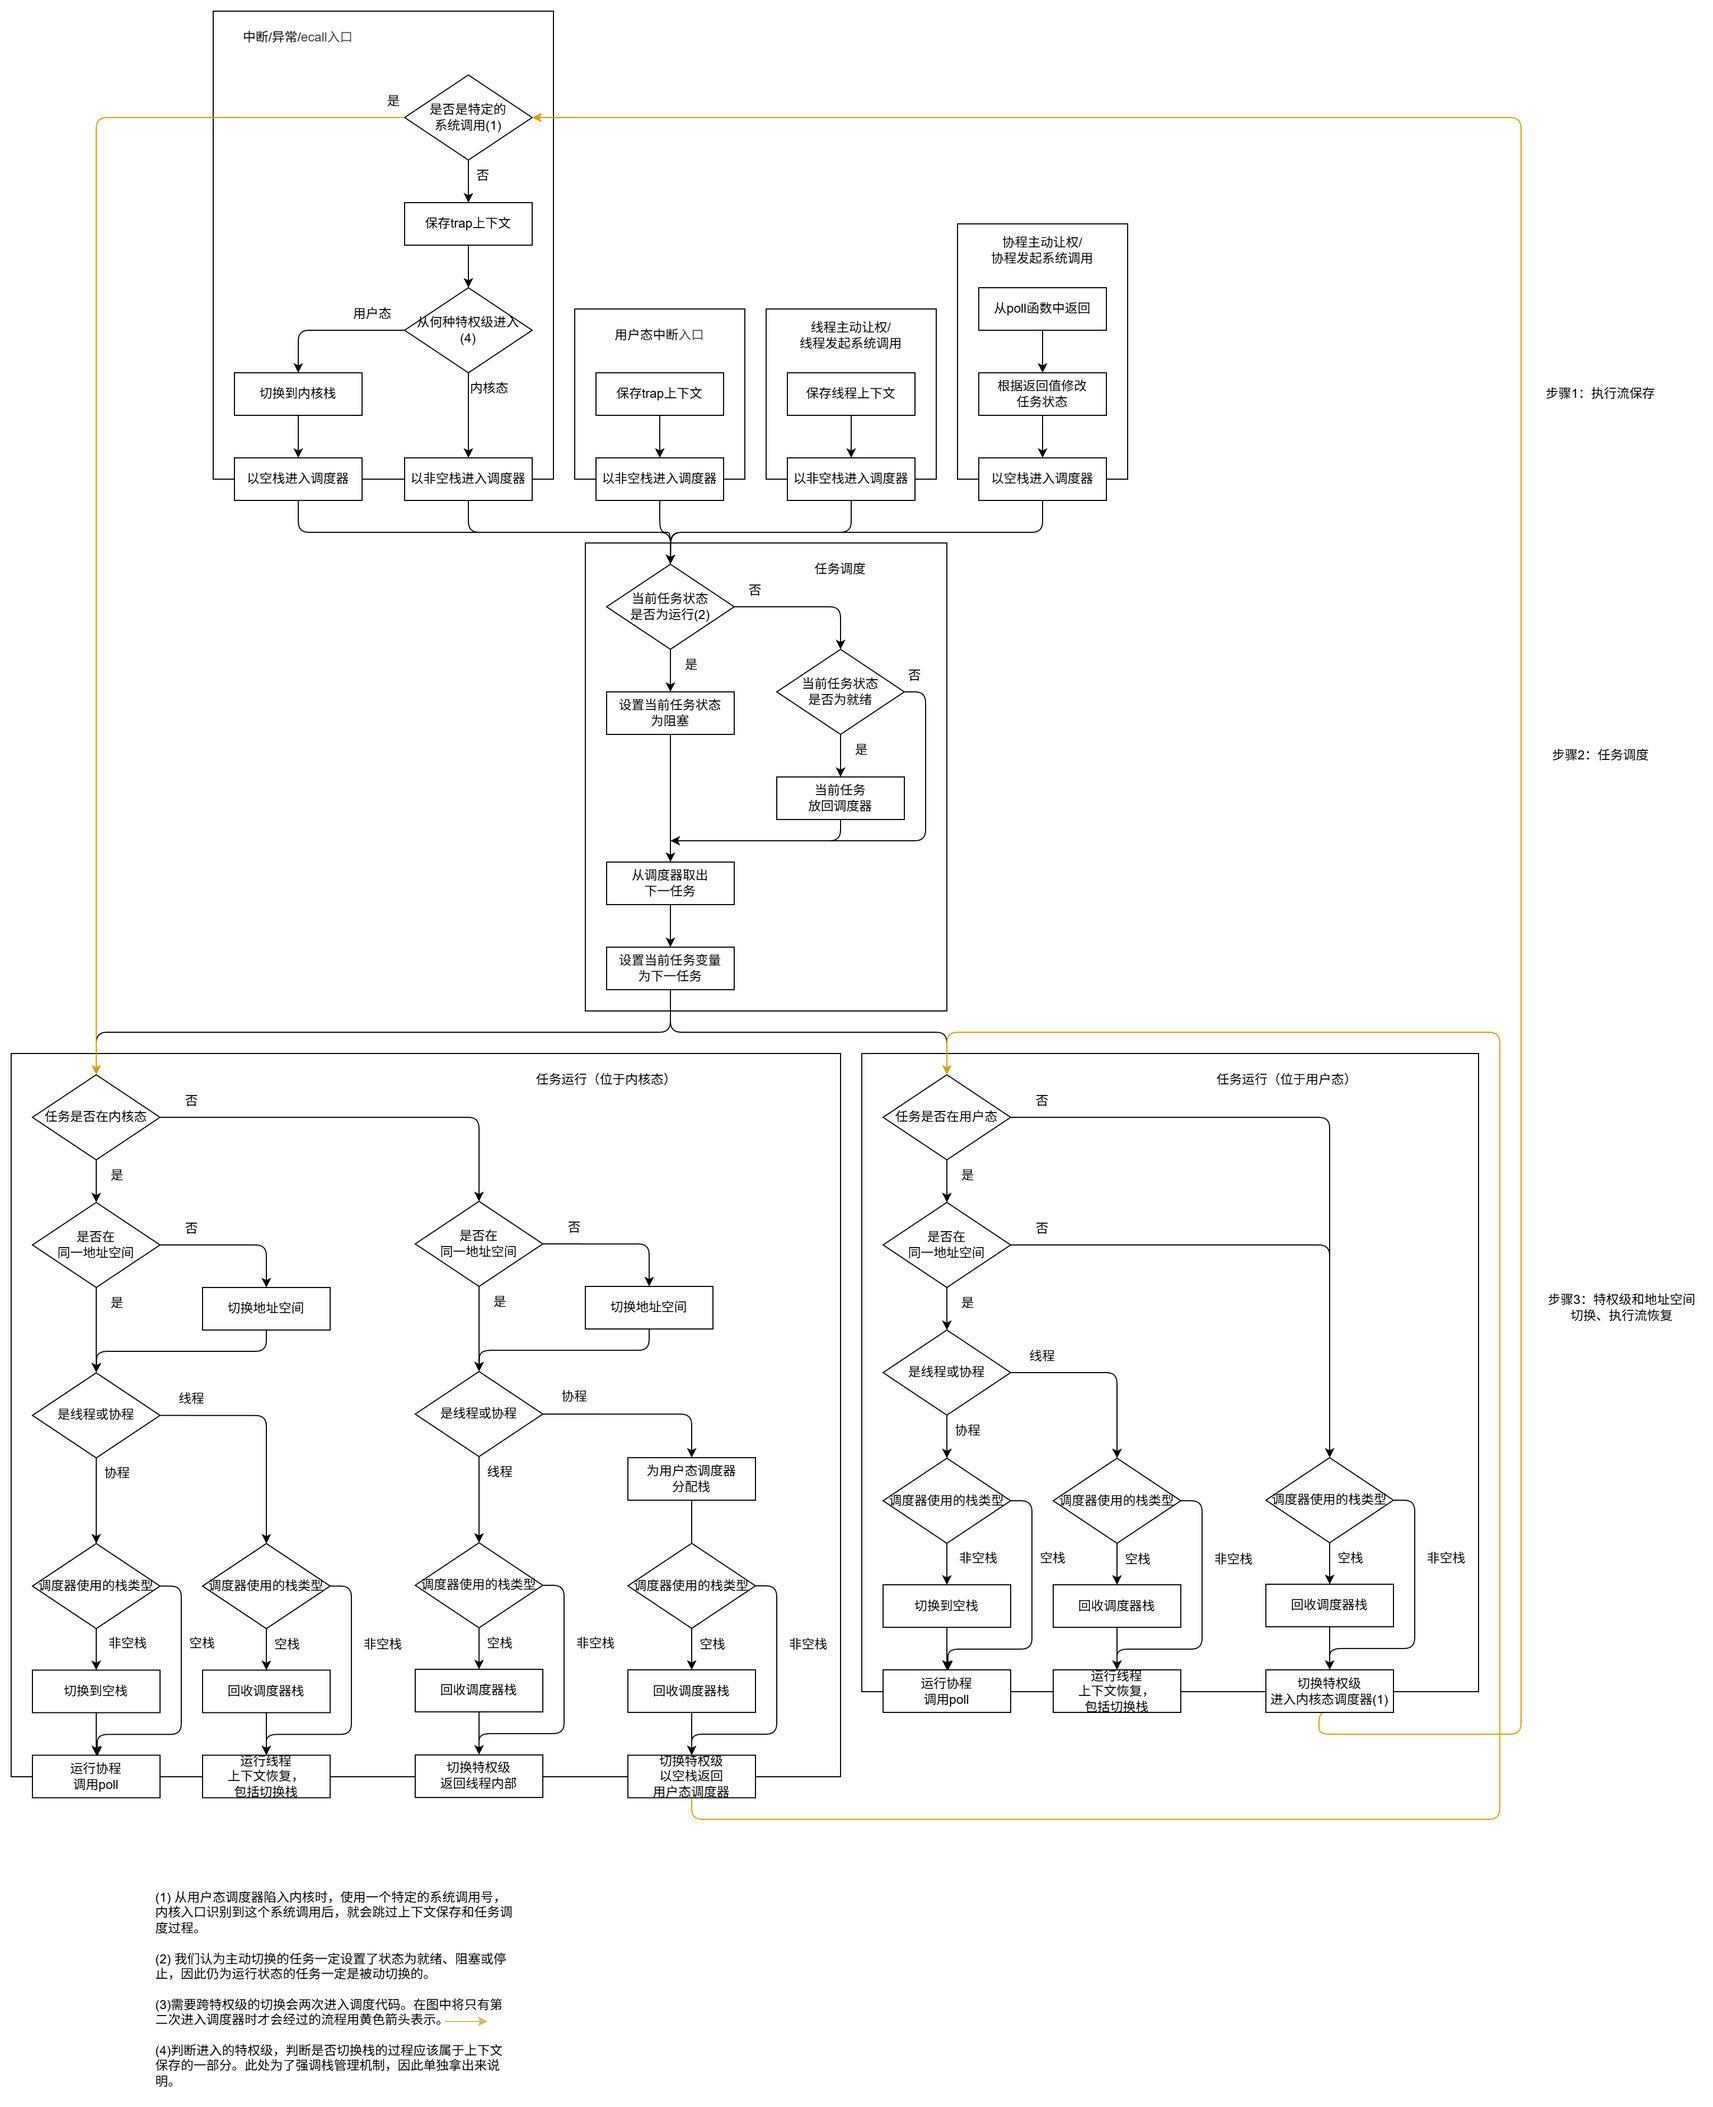
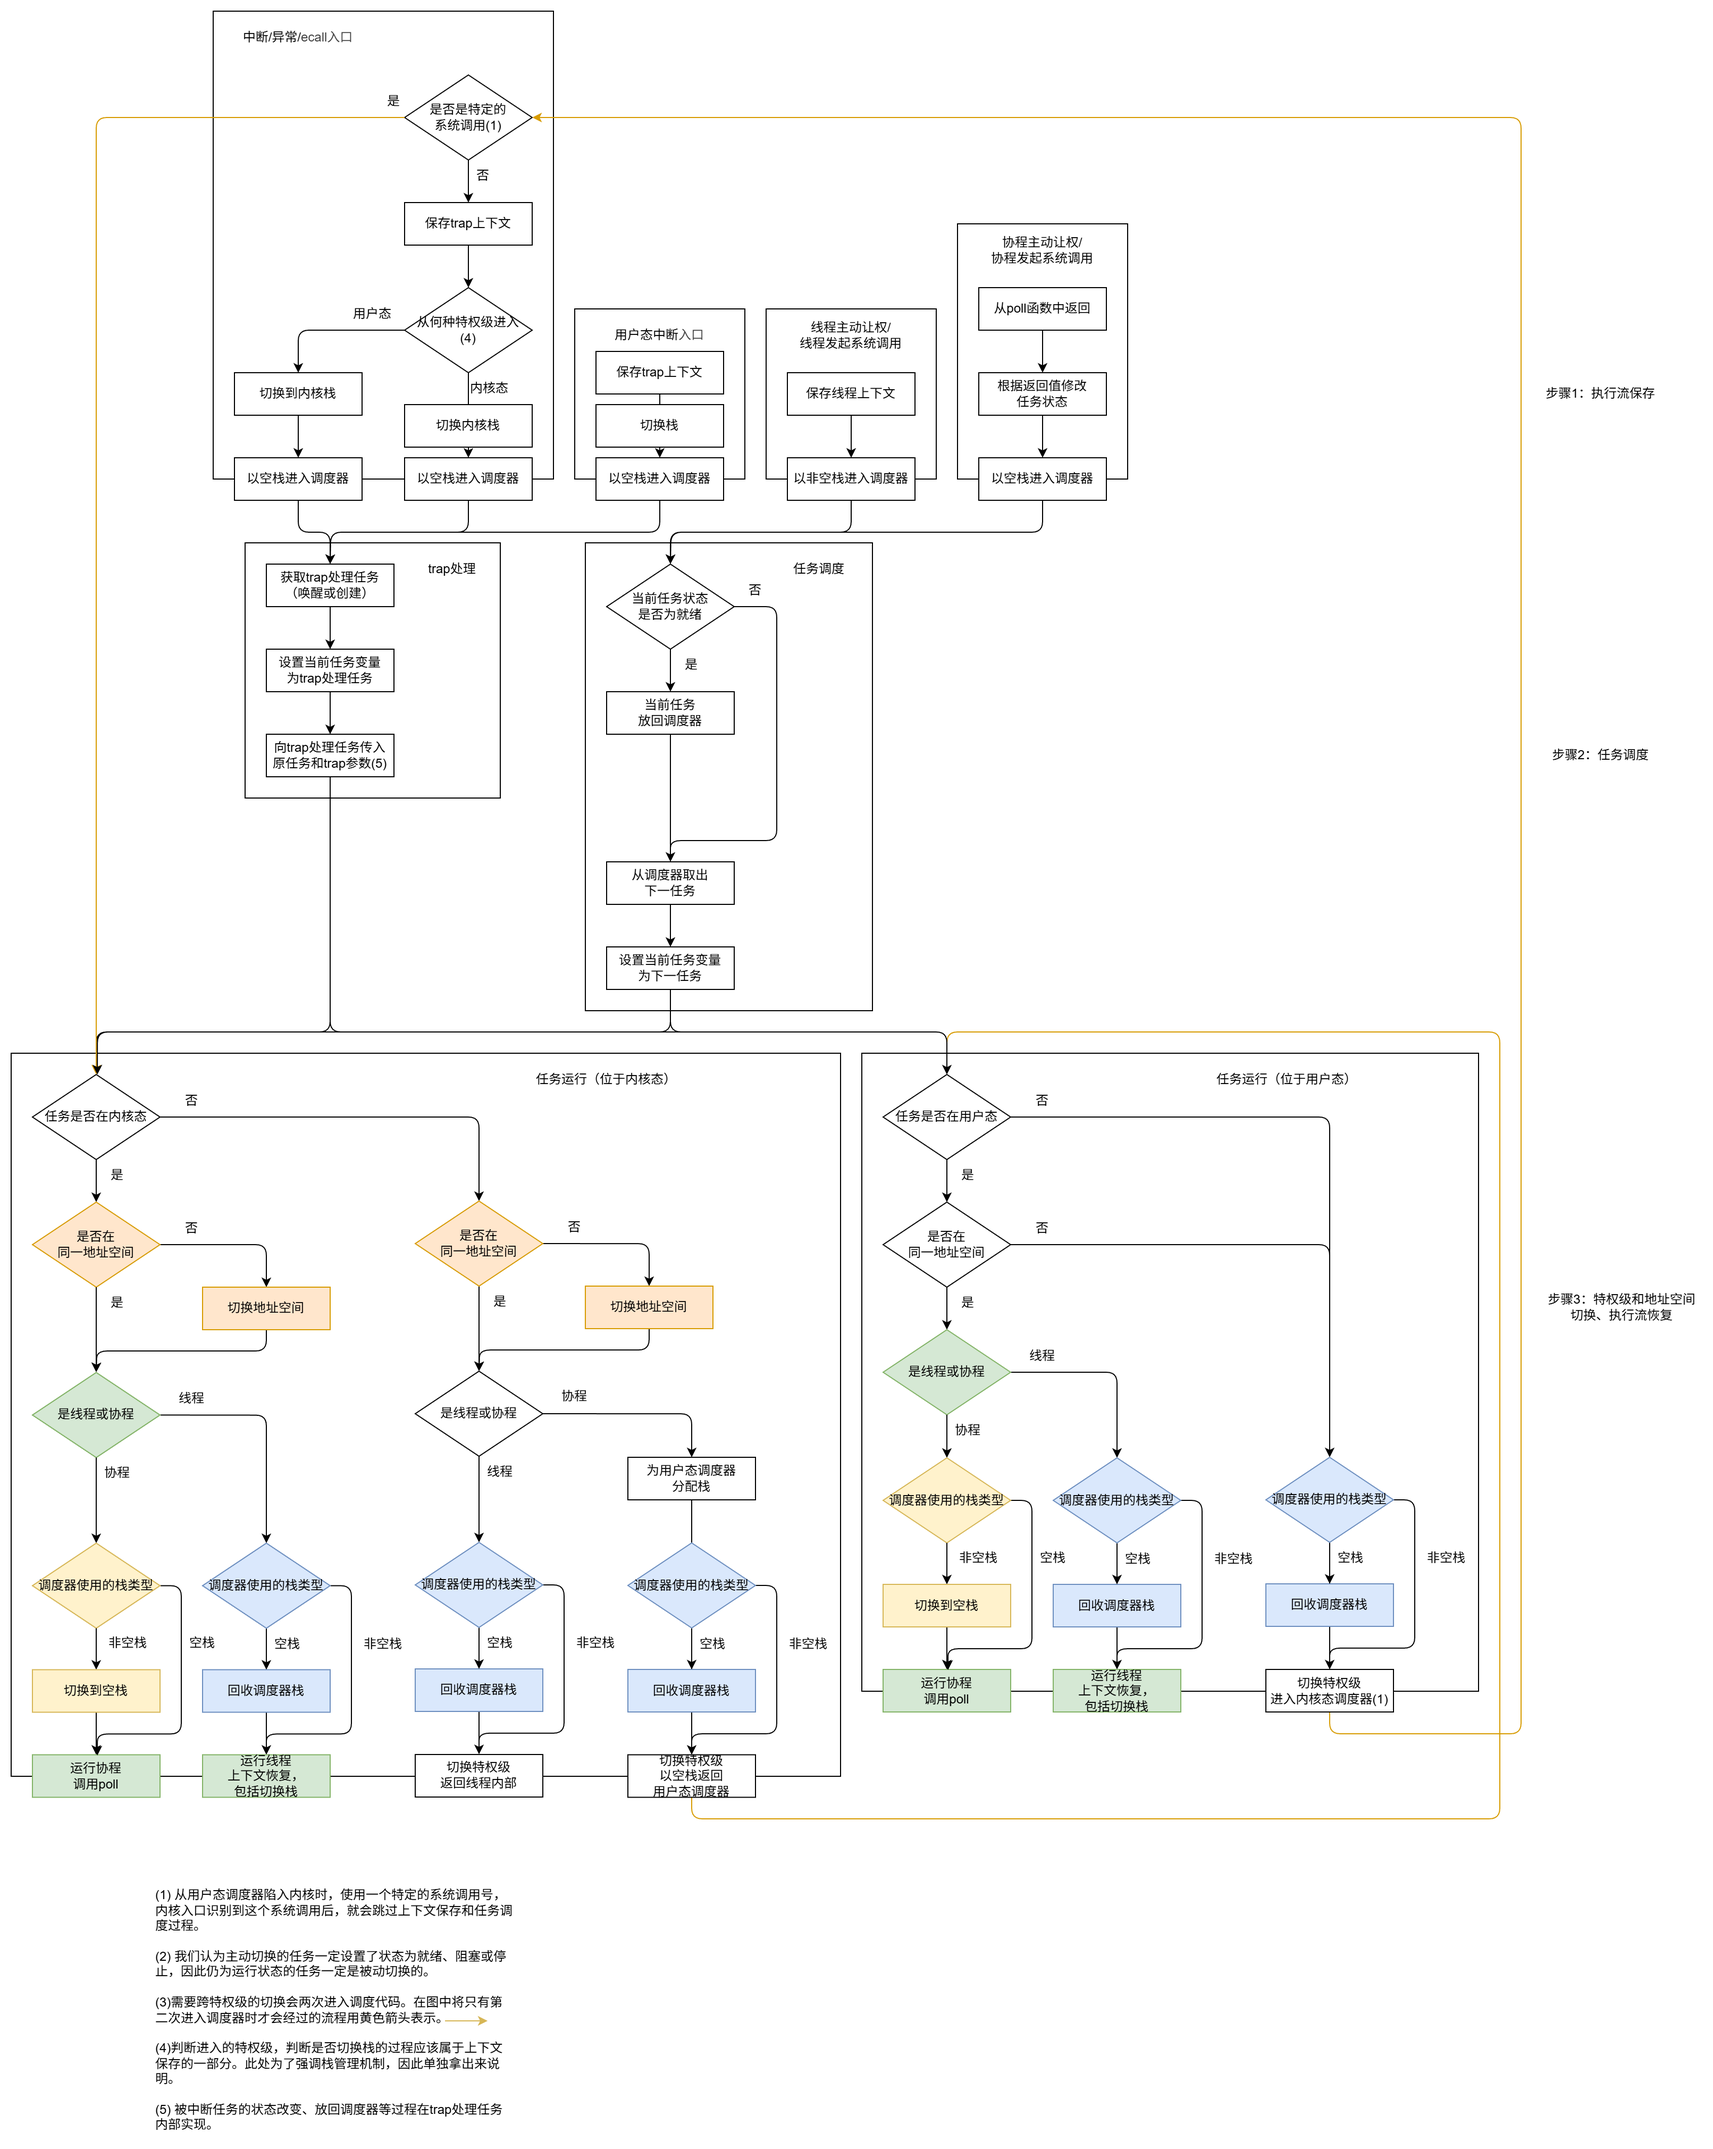
同步trap处理相关内容

diff --git a/26.3.2~26.3.8/调度器模块重构思路.md b/26.3.2~26.3.8/调度器模块重构思路.md
@@ -64,7 +64,7 @@ trap前后的执行流视为不同任务的情况：
 4. 在从用户调度器陷入内核的情况，不需保存用户态上下文（因为已经静态保存了进入用户调度入口的用户态上下文）。
 5. 在不使用硬件的情况下统一中断优先级和任务调度优先级，避免优先级倒置现象。（但仍需要CPU响应中断，造成地址空间切换的开销）
 
-#### 栈的分配和复用（需修改）
+#### 栈的分配和复用
 
 栈的使用情况：
 
@@ -206,7 +206,7 @@ trait Task<Process: Eq> {
 
 能否在vDSO中运行协程？如果使用虚函数表的方式使vDSO调用其外部的函数，不也要求这些外部函数在所有地址空间中均存在于同一位置吗？解决方案：可以将虚函数表实现为vDSO中的私有数据，即要求每个地址空间均提供一个该地址空间内部实现。
 
-#### 系统调用与任务调度的整合
+#### 异步系统调用
 
 协程式的异步系统调用：首先在用户态和内核态间创建共享的提交和完成队列。协程需要发起系统调用时，将请求放入提交队列中，之后自身返回`Pending`。内核的任务从提交队列中获取系统调用请求，处理后将结果放入完成队列，并唤醒用户态的协程。
 
@@ -216,3 +216,31 @@ trait Task<Process: Eq> {
 - 参数传递：原本内核会读取在内核保存的trap上下文以获取系统调用参数。当参数在用户态保存后，可以使用vDSO的数据共享功能，为系统调用创建请求/返回队列，用于系统调用的参数和返回值的传递。
 
 可能的方案：从用户函数库中找到封装了系统调用过程的函数（例如AsyncOS中的`syscalls/src/raw_syscall`中的函数），该函数的参数为系统调用号和其参数，返回值为系统调用结果，其内部封装了寄存器传参、调用`ecall`等过程。将这个函数的实现替换为：将系统调用参数放入提交队列、在用户态保存上下文、主动让权并阻塞。
+
+这样实现的线程式系统调用，因为被调用方不一定在调用方发起调用后的同一个核心执行，因此算作异步系统调用。
+
+#### 同步系统调用/中断/异常
+
+内核态的同步系统调用/中断/异常，以及用户态的用户态中断，都是在保存trap上下文后进行任务切换的例子。由于此类处理可能具有高实时性（例如时钟中断）和高优先级（如电源异常），因此考虑在trap发生后不进行任务调度，直接运行trap处理程序。
+
+trap处理程序与被打断的任务是两条不同的执行流。按照“任务与执行流一一对应”的设计，应对应两个任务。视为两个任务的优势为：在发生中断等被打断的任务在逻辑上没有被阻塞的情况，可以在中断处理程序运行时就把上一个任务放回调度队列，让其它核心执行。不过，为了把trap前后看成两个任务，需要让两个执行流使用不同的栈。这意味着即使是在相同优先级发生的中断，也需要切换栈，可能导致一些开销。
+
+目前按照对应两个任务来设计，在内核态保存一个阻塞在一条队列上的trap处理任务。trap进入内核态时，将该任务唤醒，传入相应的参数，并执行该任务。若trap时队列中没有任务（即trap处理任务已经在运行），则创建一个新的trap处理任务。这些处理任务运行完成后都会阻塞在同一条队列上，使得后续出现同时运行多个trap处理任务的情景也无需新建任务。对于用户态中断，则在每个进程中分别管理trap处理任务。
+
+trap任务的处理流程如下图所示：
+
+![](../26.3.23~26.3.29/trap处理任务执行流程.png)
+
+内核态的trap处理任务要么具备在不同地址空间内运行的能力，要么为每个进程创建一个trap处理任务。对于不同的地址空间，内核态子空间的布局是相同的。而用户态子空间的布局不同。而trap处理任务的代码与大部分数据均在内核态子空间中。只有通过系统调用参数传递的一些用户态指针会访问用户态子空间中的数据，而可以保证地址空间的切换使这些用户态指针都在自己的地址空间内被访问。因此，“使trap处理任务具备在不同地址空间内运行的能力”似乎是可以实现的？
+
+#### 安全性
+
+为避免用户进程获取其它进程与内核的任务信息，可以在用户态获取到其它的任务时，不返回具体的任务，而是返回一个“需要进内核”的信息，进入内核后再获取具体的任务。
+
+然而，在vDSO的设计中，调度器的代码和数据都在用户空间内，被用户进程执行和访问。调度器选出下一个运行任务的调度过程一定需要获取其它进程的任务信息。而获取当前任务的代码也在vDSO中，并未给用户程序提供获取下一任务的接口，而是在vDSO中决定是否陷入内核。因此，如果用户只使用vDSO给定的接口，则无需修改接口也不会对用户提供其它进程的任务信息；如果用户通过特殊方法获取vDSO内部的信息，则如上的修改方案也无法阻止用户获取其它进程的任务信息。
+
+因此，需要同时修改调度算法：在用户态只暴露每个进程的最高优先级；在内核态才可得知所有任务的详情，在进程内部得知进程的任务的详情。
+
+#### 高优先级协程独占栈
+
+感觉现阶段可以先不考虑这个功能，在做完一版后再考虑能否添加该功能？
